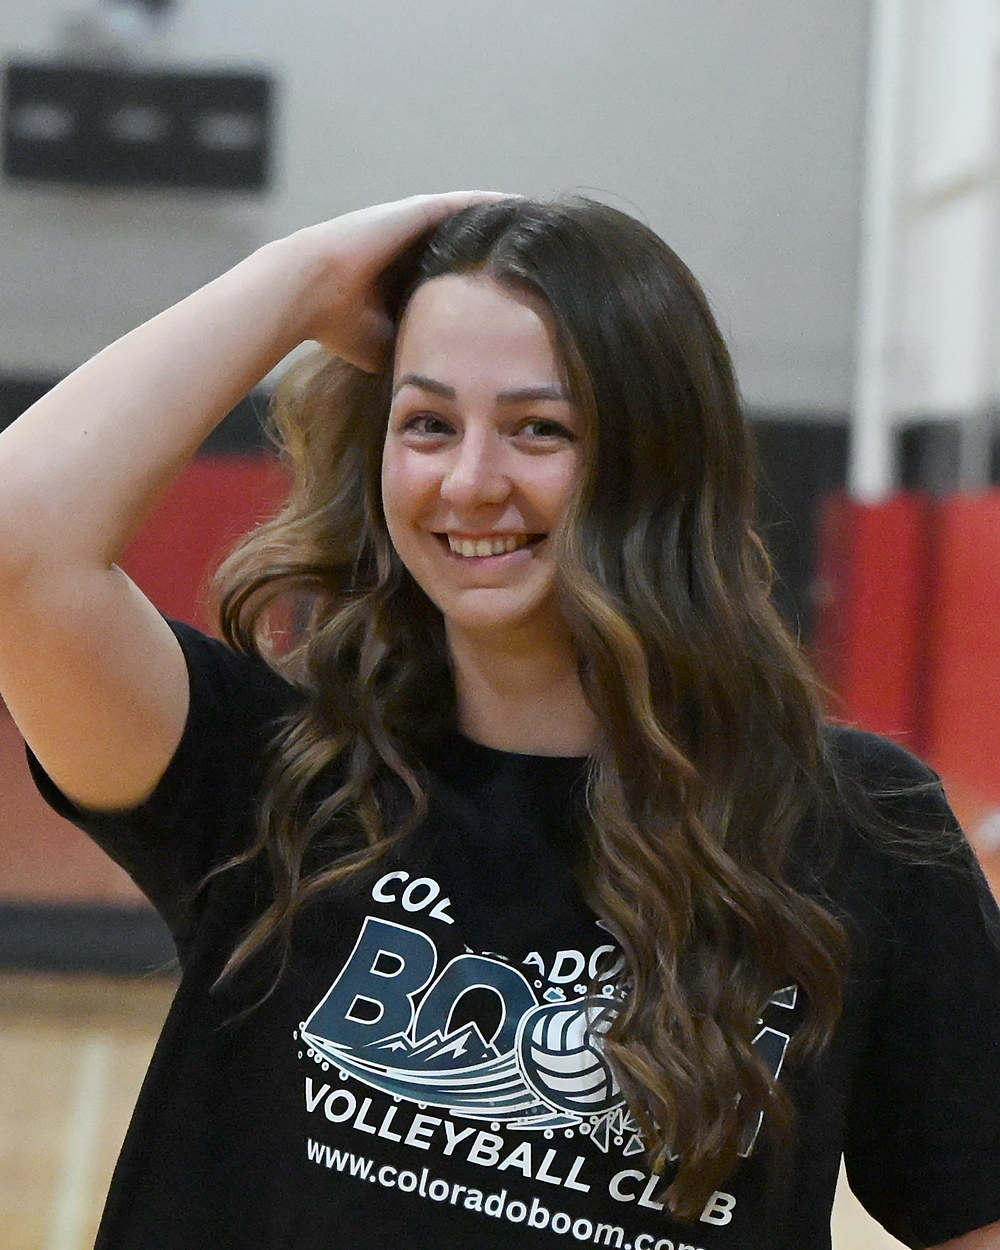
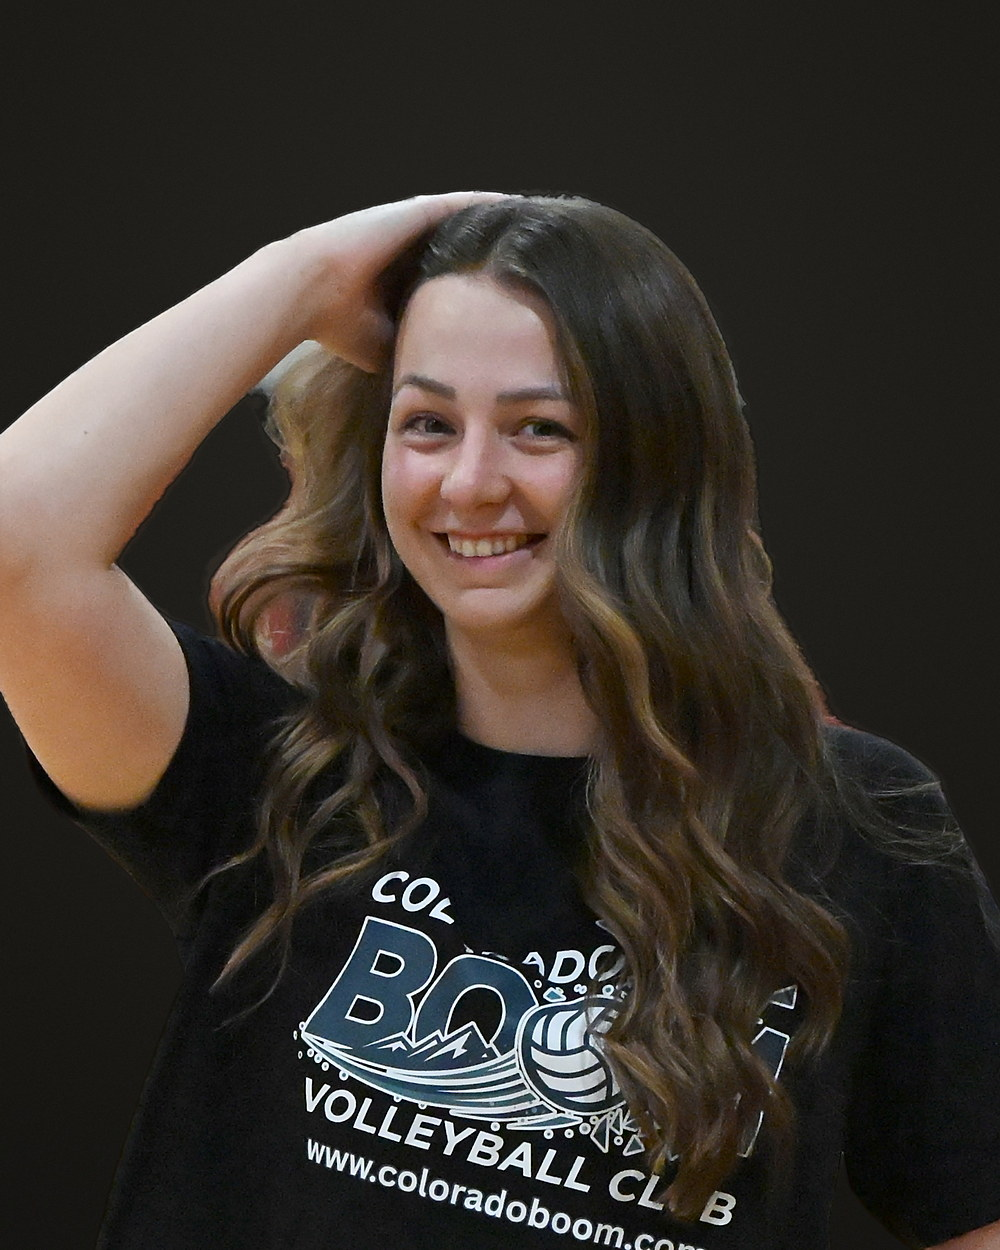
v1.80: Sidney Reese onto the black backdrop; confirm the Sydney/Sidney identity
Owner confirmed the coach supplied as "Sydney" is Sidney Reese, and asked for her
background to match the other two rather than be blurred.

Hers was the only one of the three shot in the gym. The library holds no
black-backdrop frame of her -- only five such frames exist at all and every one is
Mel or Damon -- so a real substitute was not available. She is matted out with a
human-segmentation model and composited onto a backdrop rebuilt to match: warm
charcoal 15-40, soft light spill behind the head, fine grain, all measured off the
real Mel and Damon frames rather than guessed. Edge pixels are pulled toward the
new dark ground so no bright gym pixel survives in her hair.

Her card is therefore a composite while the other two are straight photographs.
The likeness is unaltered and the original gym frame is untouched on OneDrive, but
the distinction is recorded here and in the page build comment so nobody later
assumes all three are unretouched.

IMAGES.md now tells whoever adds the remaining thirteen to shoot against the black
backdrop, which avoids the technique entirely -- long hair is exactly where matting
is most likely to look wrong.

diff --git a/coaching-staff.html b/coaching-staff.html
@@ -1,7 +1,7 @@
 <!DOCTYPE html>
 <html lang="en">
 <head>
-  <!-- BUILD v1.79 · 2026-08-30 · [CO-02b]+[CO-03] FIRST REAL COACH PHOTOS: Damon Sichler (leadership), Mel Erly and Sidney Reese (coaches) replace their [ Photo ] placeholders; the other 13 cards keep the gradient block. Photo boxes went 4:3 landscape -> 4:5 PORTRAIT for both grids: the 4:3 box was drawn for an empty placeholder and made a real head sit small in a frame full of background. Files are cut from the 24MP originals (crop only, never upscaled — each is 1000x1250 from a 1791-3508px source) and named after the card id (coach-mel-erly.jpg) rather than coach-1/2/3, so the roster can be reordered without renumbering; the 13 remaining data-img attributes were renamed to match. Exposure was set from each face rather than the whole frame — grey-world balancing read the warm skin as a cast and drained it. Prev v1.77 · [CO-02] intro block back on black with a gold heading and white body text; [CO-02b] sub-header returns to white so the gold/white hierarchy holds across the two dark bands; facing paddings halved so the pair reads as one block. [CO-03] stays cream. Prev v1.76 · [CO-02]+[CO-03] cream (only [CO-02b] Club Leadership stays black); coach grids now four per row (3/2/1 as the viewport narrows); gold moved to the one heading still on black; ad-hoc section padding removed so the bands use the standard rhythm; Micheal Zhu referenced as "Zhu". Prev v1.74 · [CO-02]+[CO-02b]+[CO-03] Whole staff area is now black; main header gold, sub-headers white. Every coach card carries an id (coach-first-last) so Our Teams can deep-link to a coach; :target draws a gold ring. Prev v1.73 · [CO-02b] Leadership: the SECTION is now black (the photo area went back to the standard light placeholder — the black was on the wrong element); nameplate teal-dark with a GOLD name and white title; section heading gold. [CO-03] Now on the teal gradient and split into Coaches / Assistant Coaches, the assistants on cream nameplates; CTA gold for contrast. Prev v1.72 · [CO-02b] Damon Sichler retitled Assistant Club Director (was Girls Club Director). Prev v1.71 · [CO-02b] NEW Club Leadership block (Tara Tucker, Club Operations Director; Damon Sichler, Girls Club Director) at the top, black card + teal nameplate per owner. [CO-03] Coach cards now generated from the team roster with role + team assignments. Prev v1.70 · [CO-02]+[CO-03] Real coaching roster added (Will Ly, Kyn Van, Claire Kwok, Jae Spain, Randy Vang) replacing the three generic placeholder cards; no titles or team assignments invented — add <span> under a name once known. Photos still placeholders. -->
+  <!-- BUILD v1.80 · 2026-08-31 · [CO-03] Sidney Reese's card now sits on the black backdrop like the other two. Hers was the only gym shot, and no black-backdrop frame of her exists in the library, so she was matted out and composited onto a backdrop rebuilt from measurements of the real Mel/Damon frames (warm charcoal 15-40, soft spill behind the head, fine grain). HER CARD IS A COMPOSITE; the other two are straight photographs. Owner confirmed the coach supplied as "Sydney" is Sidney Reese. Future coach photos should be shot against the black backdrop so this is not needed again — see IMAGES.md. Prev v1.79 · [CO-02b]+[CO-03] FIRST REAL COACH PHOTOS: Damon Sichler (leadership), Mel Erly and Sidney Reese (coaches) replace their [ Photo ] placeholders; the other 13 cards keep the gradient block. Photo boxes went 4:3 landscape -> 4:5 PORTRAIT for both grids: the 4:3 box was drawn for an empty placeholder and made a real head sit small in a frame full of background. Files are cut from the 24MP originals (crop only, never upscaled — each is 1000x1250 from a 1791-3508px source) and named after the card id (coach-mel-erly.jpg) rather than coach-1/2/3, so the roster can be reordered without renumbering; the 13 remaining data-img attributes were renamed to match. Exposure was set from each face rather than the whole frame — grey-world balancing read the warm skin as a cast and drained it. Prev v1.77 · [CO-02] intro block back on black with a gold heading and white body text; [CO-02b] sub-header returns to white so the gold/white hierarchy holds across the two dark bands; facing paddings halved so the pair reads as one block. [CO-03] stays cream. Prev v1.76 · [CO-02]+[CO-03] cream (only [CO-02b] Club Leadership stays black); coach grids now four per row (3/2/1 as the viewport narrows); gold moved to the one heading still on black; ad-hoc section padding removed so the bands use the standard rhythm; Micheal Zhu referenced as "Zhu". Prev v1.74 · [CO-02]+[CO-02b]+[CO-03] Whole staff area is now black; main header gold, sub-headers white. Every coach card carries an id (coach-first-last) so Our Teams can deep-link to a coach; :target draws a gold ring. Prev v1.73 · [CO-02b] Leadership: the SECTION is now black (the photo area went back to the standard light placeholder — the black was on the wrong element); nameplate teal-dark with a GOLD name and white title; section heading gold. [CO-03] Now on the teal gradient and split into Coaches / Assistant Coaches, the assistants on cream nameplates; CTA gold for contrast. Prev v1.72 · [CO-02b] Damon Sichler retitled Assistant Club Director (was Girls Club Director). Prev v1.71 · [CO-02b] NEW Club Leadership block (Tara Tucker, Club Operations Director; Damon Sichler, Girls Club Director) at the top, black card + teal nameplate per owner. [CO-03] Coach cards now generated from the team roster with role + team assignments. Prev v1.70 · [CO-02]+[CO-03] Real coaching roster added (Will Ly, Kyn Van, Claire Kwok, Jae Spain, Randy Vang) replacing the three generic placeholder cards; no titles or team assignments invented — add <span> under a name once known. Photos still placeholders. -->
   <!-- BUILD v1.36 · 2026-07-04 · batch: ANN xl + OCS note, nav Advanced Skills item -->
   <!-- BUILD v1.55 (2026-08-20) | site-wide sweep: [ANN] expired Aug 17/19 eval dates removed; mobile Login button added to header bar; Club Fees menu split into 11U-14U / 15U-18U; width/height added to images (CLS fix). See CHANGELOG.md. -->
   <meta charset="UTF-8">

diff --git a/CHANGELOG.md b/CHANGELOG.md
@@ -10,8 +10,11 @@ reconstruct later.
 
 ---
 
-## v1.79 — 2026-08-30 · First real coach photos; photo boxes go portrait
+## v1.80 — 2026-08-31 · First real coach photos; photo boxes go portrait
 `coaching-staff.html`, `assets/css` (page-local), `assets/img/`, `IMAGES.md`
+
+Ships the work stamped v1.79 on the branch plus the backdrop change below; v1.79 was never on
+Main, so it has no entry of its own.
 
 - **Three cards get real photos**: Damon Sichler in Club Leadership `[CO-02b]`, Mel Erly and
   Sidney Reese in Coaches `[CO-03]`. The other 13 cards keep the teal gradient placeholder, so
@@ -42,9 +45,23 @@ reconstruct later.
   placeholder `data-img` attributes were renamed to match; nothing reads that attribute, it is a
   note to whoever adds the next photo. `IMAGES.md` documents the convention and the 4:5 spec.
 
-- **Not done, needs the owner:** the second photo was supplied as "Sydney" and has been placed on
-  **Sidney Reese**, the only roster name it can plausibly mean. Worth confirming it is the same
-  person before this ships.
+- **Sidney Reese's backdrop is composited, not photographed.** Hers was the only one of the three
+  shot in the gym rather than against the black backdrop, so her card carried a red wall and a lit
+  wood floor while the other two were plain black — in a grid of sixteen that reads as a mistake.
+  The library has no black-backdrop frame of her (only five such frames exist at all, and every one
+  is Mel or Damon), so she was cut out and placed on a backdrop built to match: warm charcoal
+  ranging 15–40, a soft light spill behind the head, and fine grain, all measured off the real Mel
+  and Damon frames rather than guessed. The cutout is a machine matte with the edges tightened and
+  pulled toward the new dark ground, so no bright gym pixel survives in her hair.
+
+  **This means her card is a composite and the other two are not.** It is a faithful likeness and
+  nothing about her was altered, but if the club ever states its photos are unretouched, that claim
+  does not cover this one. The original gym frame is untouched on OneDrive.
+
+  The cheaper fix for the remaining thirteen: photograph them against the same black backdrop and
+  no compositing is needed. `IMAGES.md` now says so.
+
+- The photo supplied as "Sydney" is **Sidney Reese** — confirmed by the owner, 2026-08-31.
 
 ## v1.78 — 2026-08-30 · Practice window 5:15–7:30; 14 National adds a Monday slot
 `teams.html`

diff --git a/IMAGES.md b/IMAGES.md
@@ -39,3 +39,14 @@ reordered or a coach can leave without every remaining file needing to be renumb
 centred and filling roughly 80% of the frame height, cropped just below the chest. The card
 frame is 4:5, so a photo already at that ratio is shown whole and uncropped; anything else
 gets centre-cropped to fit. Keep files under ~250KB.
+
+**Shoot against the black backdrop.** The three photos on the page now share a plain dark
+charcoal background, and the grid only looks like a set because they match. A coach photographed
+in the gym stands out badly next to them — the wall colour and the lit floor pull the eye away
+from the face. Sidney Reese's was shot in the gym and had to be cut out and placed on a rebuilt
+backdrop to fit in; it worked, but it is slow, it is a composite rather than a photograph, and
+long hair is the case where that technique is most likely to look wrong. Ten minutes against the
+black backdrop avoids all of it.
+
+Aim for: coach facing the camera, head and shoulders, lit from the front, standing far enough off
+the backdrop that no shadow falls on it.
